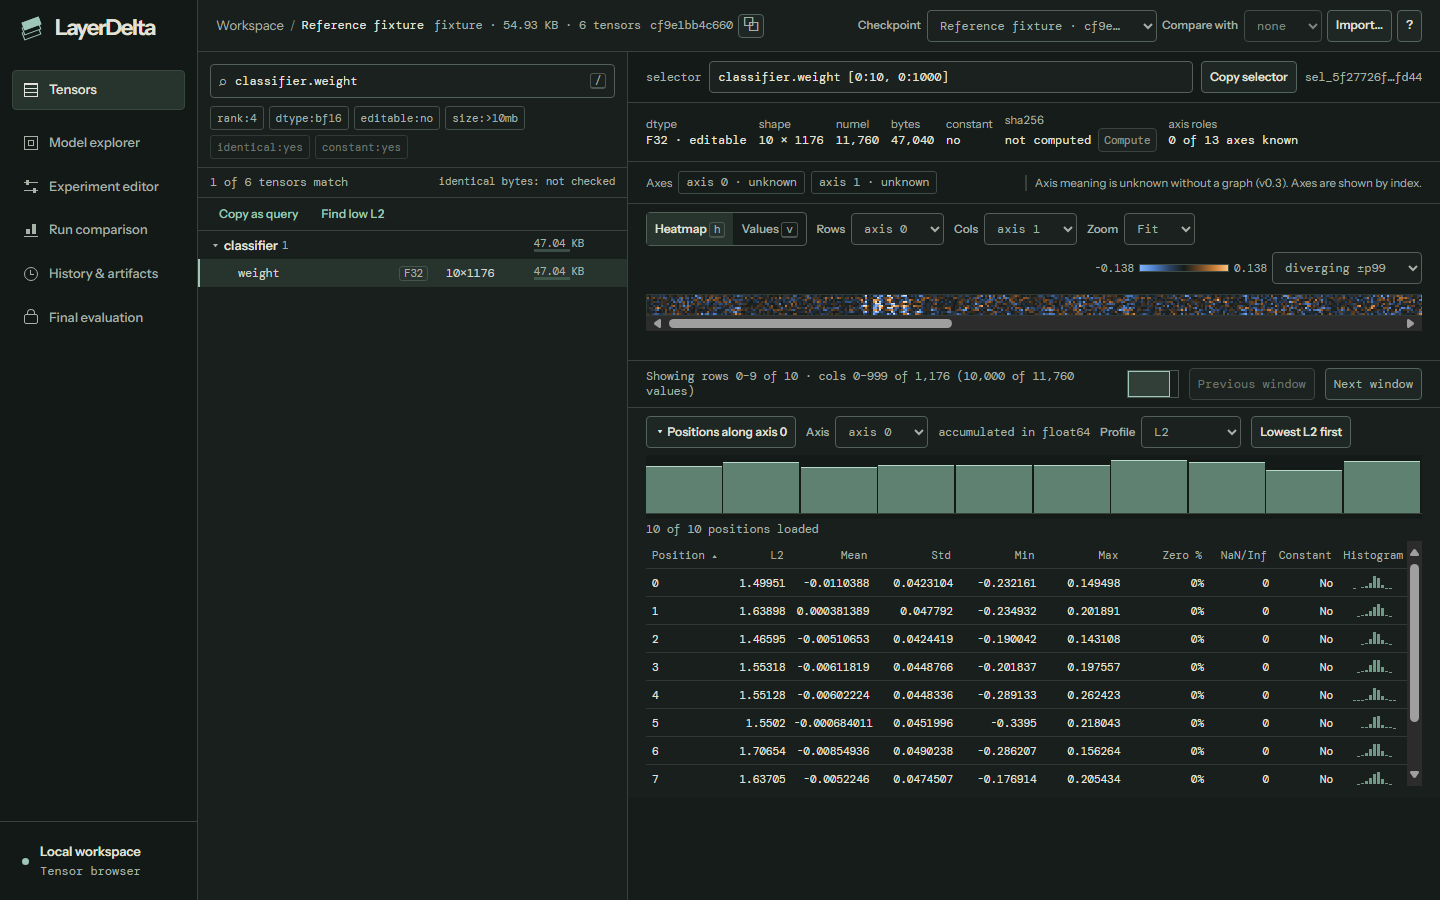
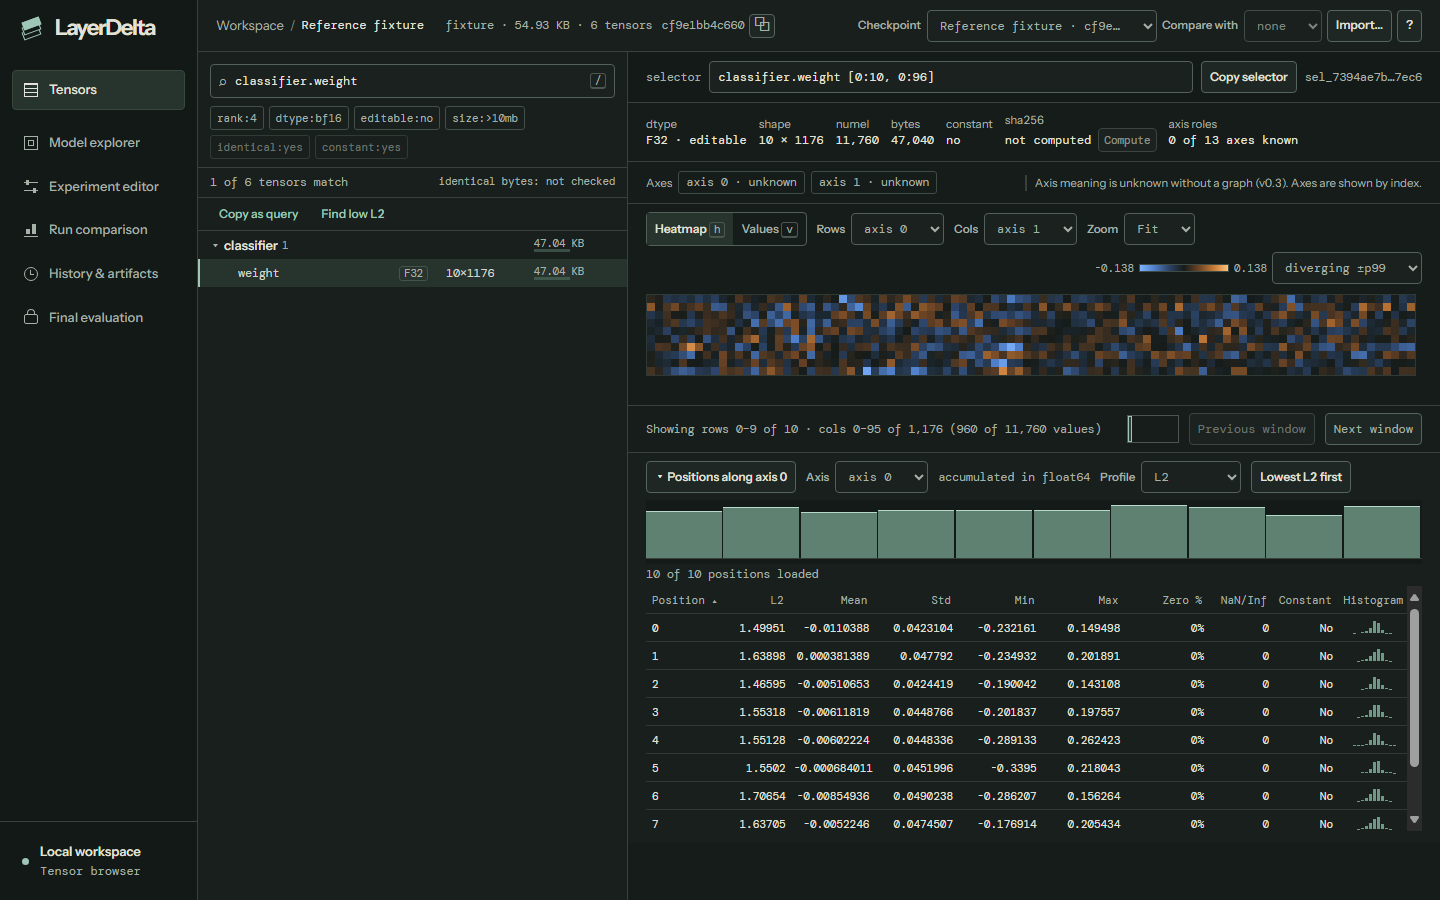
v0.2-T7b: fit-to-pane windows and profile envelope (#37)
* Fit tensor windows to the pane and draw profile envelopes

* Use pane aspect and handle signed profile envelopes

---------

diff --git a/desktop/src/TensorInspector.tsx b/desktop/src/TensorInspector.tsx
@@ -2,7 +2,7 @@ import {useEffect, useMemo, useRef, useState} from "react";
 import {AxisRange, coordinates, DiffReply, DiffStatus, elements, Envelope, indicesFor, InspectError, Range, Read,
   Resolved, resolveSelector, Selector, Tensor, TensorDataSource, Unit, Value, ValueDiff} from "./tensorSource";
 import {count, statuses} from "./tensorTree";
-import {Cells, displayUlp, Heatmap, heatmapHeight, heatmapSize, metric, minFitCell, printed, ScaleLegend, ScaleMode, scaleFor, useWidth, ValueGrid, valueGridWidths} from "./tensorValues";
+import {Cells, displayUlp, fitCell, Heatmap, heatmapHeight, heatmapSize, metric, minFitCell, printed, ScaleLegend, ScaleMode, scaleFor, useWidth, ValueGrid, valueGridWidths} from "./tensorValues";
 import {Units} from "./tensorUnits";
 
 type View = "Heatmap" | "Values" | "Mosaic";
@@ -11,7 +11,7 @@ type DeltaPage = DiffReply<ValueDiff>;
 type Cursors = {child: string | null; parent?: string | null; delta?: string | null; pair?: string};
 type LoadedPage = {child: ReadPage; parent?: ReadPage; delta?: DeltaPage};
 type Layout = {rows: number; cols: number; spatial: number[]; view: View; index: Record<string, number[] | AxisRange>; shape?: number[]};
-type Display = Pick<Layout, "rows" | "cols" | "spatial"> & {flats: boolean; selectorText: string};
+type Display = Pick<Layout, "rows" | "cols" | "spatial"> & {flats: boolean; flatCols: number; selectorText: string};
 type DisplayedPage = LoadedPage & {key: string; dataset: string; range: LoadedPage & {key: string}; display: Display};
 const pageCap = 10000;
 const smallAxes = (tensor: Tensor) => tensor.shape.flatMap((n, i) => n > 0 && n <= 7 ? [i] : []);
@@ -71,6 +71,7 @@ type InspectorProps = {source: TensorDataSource; checkpoint: string; other: stri
 export function TensorInspector({source, checkpoint, other, tensor: t, status, coverage, shortcuts, copy, focusRequest}: InspectorProps) {
   const [layout, setLayout] = useState(() => defaultLayout(t));
   const [page, setPage] = useState(0);
+  const [cursorPageSize, setCursorPageSize] = useState<number>();
   const [flatCursors, setFlatCursors] = useState<Cursors[]>([{child: null}]);
   const [fixedInput, setFixedInput] = useState<Record<number, string>>({});
   const [unitAxis, setUnitAxis] = useState(0);
@@ -111,20 +112,36 @@ export function TensorInspector({source, checkpoint, other, tensor: t, status, c
   const tileArea = Math.max(1, tileRows * tileCols);
   const fullCount = elements(ids.map(axis => axis.length));
   const regionCap = Math.floor(pageCap / tileArea);
+  const fit = view !== "Values" && zoom === "fit";
   const paneCount = comparing ? 3 : 1;
   const paneWidth = Math.max(1, ((width || 800) - 40 - (paneCount - 1) * 14) / paneCount);
-  const rowLimit = Math.max(1, Math.floor(heatmapHeight / (tileRows * minFitCell)));
+  const gap = tileRows > 1 || tileCols > 1 ? 1 : 0;
+  const rowLimit = Math.max(1, Math.floor((heatmapHeight + gap) / Math.max(1, tileRows * minFitCell + gap)));
   const fitsRows = fullRows <= rowLimit && fullRows <= regionCap;
-  // Keep wide single-pane windows useful with horizontal scrolling at readable zoom.
-  const colLimit = Math.max(!comparing && fitsRows ? 1000 : 1, Math.floor(paneWidth / (tileCols * minFitCell)));
   const balancedRows = Math.max(1, Math.min(rowLimit, Math.ceil(Math.sqrt(regionCap * fullRows / Math.max(1, fullCols)))));
-  const windowRows = fullCount <= pageCap ? fullRows : Math.min(fullRows, fitsRows ? fullRows : spatial.length ? Math.min(16, balancedRows) : balancedRows);
-  const windowCols = fullCount <= pageCap ? fullCols :
-    Math.max(1, Math.min(fullCols, spatial.length ? Math.min(32, colLimit) : colLimit, Math.floor(regionCap / Math.max(1, windowRows))));
+  const aspectRows = Math.ceil(Math.sqrt(regionCap * heatmapHeight * tileCols / Math.max(1, paneWidth * tileRows)));
+  const paneRows = Math.min(fullRows, rowLimit, regionCap, Math.max(1, aspectRows));
+  const paneRowsHeight = paneRows * tileRows + gap * Math.max(0, paneRows - 1);
+  // Give up one row when it lets the window use a larger cell and fill more of the pane.
+  const fitRows = paneRows > 1 && fitCell(paneRowsHeight - tileRows - gap) > fitCell(paneRowsHeight) ? paneRows - 1 : paneRows;
+  const windowRows = fit ? fitRows :
+    fullCount <= pageCap ? fullRows : Math.min(fullRows, fitsRows ? fullRows : spatial.length ? Math.min(16, balancedRows) : balancedRows);
+  const matrixCell = fitCell(windowRows * tileRows + gap * Math.max(0, windowRows - 1));
+  const colLimit = fit ? Math.floor((paneWidth + gap) / Math.max(1, tileCols * matrixCell + gap)) :
+    Math.max(!comparing && fitsRows ? 1000 : 1, Math.floor(paneWidth / Math.max(1, tileCols * minFitCell)));
+  const windowCols = !fit && fullCount <= pageCap ? fullCols :
+    Math.max(1, Math.min(fullCols, !fit && spatial.length ? Math.min(32, colLimit) : colLimit, Math.floor(regionCap / Math.max(1, windowRows))));
+  const vector = t.shape.length === 1;
+  const flatColsCap = vector ? 128 : 80;
+  const flatCell = fitCell(vector ? 1 : Math.ceil(Math.min(fullCount, pageCap) / flatColsCap));
+  const flatCols = fit ? Math.max(1, Math.min(flatColsCap, Math.floor(paneWidth / flatCell))) : flatColsCap;
+  const flatPageSize = Math.min(vector ? 128 : pageCap, fit ? flatCols * (vector ? 1 : Math.floor(heatmapHeight / flatCell)) : pageCap);
+  const cell = fit ? flats ? flatCell : matrixCell : view === "Values" ? minFitCell : Number(zoom);
   const colsPages = Math.max(1, Math.ceil(fullCols / (windowCols || 1)));
   const rectangularPages = Math.max(1, Math.ceil(fullRows / (windowRows || 1)) * colsPages);
   const windowed = !flats && rectangularPages > 1;
-  const windowPage = windowed ? Math.min(page, rectangularPages - 1) : flats ? page : 0;
+  // Flat cursors mark offsets for the page size that produced them.
+  const windowPage = windowed ? Math.min(page, rectangularPages - 1) : flats && flatPageSize === cursorPageSize ? page : 0;
   const rowStart = Math.floor(windowPage / colsPages) * windowRows, colStart = (windowPage % colsPages) * windowCols;
   const rowPart = ids[rows]?.slice(rowStart, rowStart + windowRows);
   const colPart = ids[cols]?.slice(colStart, colStart + windowCols);
@@ -136,10 +153,10 @@ export function TensorInspector({source, checkpoint, other, tensor: t, status, c
       index[axis] = part.at(-1)! - part[0] + 1 === part.length ? {start: part[0], stop: part.at(-1)! + 1} : part;
     }
     return {...baseSelector, index};
-  }, [baseSelector, rows, cols, t.name, windowed, rowStart, colStart]);
+  }, [baseSelector, rows, cols, windowed, rowStart, colStart, windowRows, windowCols]);
   const dataset = JSON.stringify([checkpoint, comparing ? other : "", t.name]);
   const selectorText = syntax(t, selection.index ?? {}, shape);
-  const viewKey = JSON.stringify([dataset, baseKey, windowPage, selection, rows, cols, spatial, retry]);
+  const viewKey = JSON.stringify([dataset, baseKey, windowPage, selection, rows, cols, spatial, flats ? [flatPageSize, flatCols] : null, retry]);
   const globalKey = JSON.stringify([dataset, baseKey]);
   const activeId = status === "only_a" ? other : checkpoint;
   const wholeKey = activeId + t.name;
@@ -149,14 +166,13 @@ export function TensorInspector({source, checkpoint, other, tensor: t, status, c
   const failure = error ?? readError;
   const stale = !!failure && !!shown;
   const pending = canRead && !current && !failure;
-  const flatPageSize = t.shape.length === 1 ? 128 : pageCap;
-  const flatCount = Math.max(0, Math.min(flatPageSize, fullCount - page * flatPageSize));
-  const colsReading = flats ? Math.min(t.shape.length === 1 ? flatPageSize : 80, flatCount) :
+  const flatCount = Math.max(0, Math.min(flatPageSize, fullCount - windowPage * flatPageSize));
+  const colsReading = flats ? Math.min(flatCols, flatCount) :
     (windowed ? colPart?.length ?? 1 : fullCols) * tileCols;
   const rowsReading = flats ? Math.ceil(flatCount / Math.max(1, colsReading)) :
     (windowed ? rowPart?.length ?? 1 : fullRows) * tileRows;
   const computeRange = global?.key !== globalKey && fullCount > 0 && fullCount <= 2 ** 24;
-  const skeleton = pending && !shown && heatmapSize(Math.max(1, rowsReading), Math.max(1, colsReading), tileRows, tileCols, paneWidth, zoom);
+  const skeleton = pending && !shown && heatmapSize(Math.max(1, rowsReading), Math.max(1, colsReading), tileRows, tileCols, cell);
   // The backend rejects explicit zero-length ranges, including the echoed empty-axis range.
   const copySelection = t.shape.includes(0) ? selection : shown?.child.resolved.selector ?? resolveSelector({...selection, shape: t.shape}, t);
 
@@ -197,7 +213,7 @@ export function TensorInspector({source, checkpoint, other, tensor: t, status, c
     let live = true;
     setReadError(undefined);
     if (!canRead) return;
-    const pageSize = t.shape.length === 1 ? 128 : pageCap;
+    const pageSize = flats ? flatPageSize : pageCap;
     async function fetchPage(selector: Selector, include_range: boolean): Promise<LoadedPage> {
       const readChild = source.read_tensor(activeId, {selector, max_elems: pageSize, include_range});
       if (!comparing) return {child: await readChild};
@@ -212,23 +228,24 @@ export function TensorInspector({source, checkpoint, other, tensor: t, status, c
       try {
         const saved = global?.key === globalKey ? global : undefined;
         const firstPage = saved ?? fetchPage(baseSelector, true);
-        const [first, window] = await Promise.all([firstPage, windowed ? fetchPage(selection, false) : undefined]);
+        const changedPageSize = flats && windowPage === 0 && saved && saved.child.result.returned_elems !== flatCount;
+        const [first, window] = await Promise.all([firstPage, windowed || changedPageSize ? fetchPage(selection, false) : undefined]);
         if (!live) return;
         const range = saved ?? {key: globalKey, ...first};
         if (!saved) setGlobal(range);
         let data = window ?? range;
-        if (flats && page > 0) {
-          const child = await source.read_tensor(activeId, {selector: selection, max_elems: t.shape.length === 1 ? 128 : pageCap, cursor: flatCursors[page]?.child});
+        if (flats && windowPage > 0) {
+          const child = await source.read_tensor(activeId, {selector: selection, max_elems: pageSize, cursor: flatCursors[windowPage]?.child});
           let parent: ReadPage | undefined, delta: DeltaPage | undefined;
           if (comparing) {
             const {offset, returned_elems} = child.result;
-            const max_elems = t.shape.length === 1 ? 128 : pageCap;
+            const max_elems = pageSize;
             const cursorAt = async <T extends {cursor: string | null}>(initial: T, next: (cursor: string) => Promise<T>) => {
               let value = initial;
-              for (let step = 0; step < page && value.cursor; step++) value = await next(value.cursor);
+              for (let step = 0; step < windowPage && value.cursor; step++) value = await next(value.cursor);
               return value;
             };
-            const saved = flatCursors[page];
+            const saved = flatCursors[windowPage];
             const parentPage = (cursor: string) => source.read_tensor(other, {selector: selection, max_elems, cursor});
             const deltaPage = (cursor: string) => source.diff(other, checkpoint, {selector: selection, values: true, unit_axis: null, max_elems, cursor});
             [parent, delta] = saved?.pair === other && saved.parent && saved.delta ? await Promise.all([
@@ -239,7 +256,7 @@ export function TensorInspector({source, checkpoint, other, tensor: t, status, c
           }
           data = {child, parent, delta};
         }
-        if (live) setLoaded({...data, key: viewKey, dataset, range, display: {rows, cols, spatial, flats, selectorText}});
+        if (live) setLoaded({...data, key: viewKey, dataset, range, display: {rows, cols, spatial, flats, flatCols, selectorText}});
       } catch (e) {
         if (live) setReadError(e instanceof InspectError ? e : new InspectError("read_failed", (e as Error).message));
       }
@@ -252,9 +269,12 @@ export function TensorInspector({source, checkpoint, other, tensor: t, status, c
   const truncated = windowed || !!shown?.child.truncated || windowPage > 0;
   function stepWindow(step: number) {
     if (step < 0 ? windowPage === 0 : !canNext) return;
-    if (step > 0 && flats && current?.child.cursor) setFlatCursors(previous => [...previous.slice(0, page + 1), {
-      child: current.child.cursor, parent: current.parent?.cursor, delta: current.delta?.cursor, pair: other,
-    }]);
+    if (step > 0 && flats && current?.child.cursor) {
+      setCursorPageSize(flatPageSize);
+      setFlatCursors(previous => [...previous.slice(0, windowPage + 1), {
+        child: current.child.cursor, parent: current.parent?.cursor, delta: current.delta?.cursor, pair: other,
+      }]);
+    }
     setPage(windowPage + step); setCursor(-1); setPinned(-1); setDraft(undefined);
   }
 
@@ -327,12 +347,12 @@ export function TensorInspector({source, checkpoint, other, tensor: t, status, c
     [scoped, modes, shown]);
   const mapped = useMemo(() => {
     if (!shown) return null;
-    const {rows, cols, spatial, flats} = shown.display;
+    const {rows, cols, spatial, flats, flatCols} = shown.display;
     const positionAxes = indicesFor(shown.child.resolved.selector);
     const result = shown.child.result;
     if (!result.returned_elems) return null;
     if (flats) {
-      const width = t.shape.length === 1 ? result.returned_elems : Math.min(80, result.returned_elems);
+      const width = Math.min(flatCols, result.returned_elems);
       return {height: Math.ceil(result.returned_elems / width), width, tileHeight: 1, tileWidth: 1,
         positions: result.values.map((_, i) => coordinates(i + result.offset, result.selection_shape).map((p, axis) => positionAxes[axis][p])),
         order: result.values.map((_, i) => i)};
@@ -482,7 +502,7 @@ export function TensorInspector({source, checkpoint, other, tensor: t, status, c
         {elapsed > 0 && <span aria-hidden="true" className="tb-read-elapsed"> · {elapsed} s elapsed</span>}
       </div>}
       {stale && <p role="status" className="tb-read-status">Showing the last valid selection</p>}
-      <div ref={stage} className="tb-stage" data-pending={pending && !!shown} data-compare={panes.length > 1}>
+      <div ref={stage} className="tb-stage" data-fit={fit} data-pending={pending && !!shown} data-compare={panes.length > 1}>
         {skeleton && Array.from({length: paneCount}, (_, i) => <div key={i} className="tb-window-skeleton" aria-hidden="true"
           style={{width: Math.min(view === "Values" ? (colsReading + 1) * 36 : skeleton.w, paneWidth),
             height: view === "Values" ? Math.min(255, (rowsReading + 1) * 28) : skeleton.h}}/>)}
@@ -498,8 +518,7 @@ export function TensorInspector({source, checkpoint, other, tensor: t, status, c
                   if (peer !== scroller) {peer.scrollTop = scroller.scrollTop; peer.scrollLeft = scroller.scrollLeft;}
                 });
               } : undefined}/> :
-              <Heatmap cells={cells} cursor={focusCell} onCursor={setCursor} onPin={pin} zoom={zoom}
-                width={paneWidth}
+              <Heatmap cells={cells} cursor={focusCell} onCursor={setCursor} onPin={pin} cell={cell}
                 label={view + " of " + shownDisplay?.selectorText + ", " + mapped.height + " by " + mapped.width + ", " + p.scale.label +
                   (p.scale.note ? ", " + p.scale.note : "") +
                   (p.scale.kind === "empty" || p.scale.kind === "constant" || p.scale.kind === "bool" ? "" :

diff --git a/desktop/src/tensorBrowser.css b/desktop/src/tensorBrowser.css
@@ -30,7 +30,7 @@
 #tb-selector-error code {margin-inline-start: 4px}
 .tb-context {min-height: 52px; padding: 6px 18px; gap: 12px; flex-wrap: nowrap}
 .tb-catalog-context {display: flex; align-items: center; gap: 10px; flex: 1 1 0; min-width: 0; white-space: nowrap}
-.tb-catalog-facts {display: flex; align-items: center; gap: 5px; min-width: 0}
+.tb-catalog-facts {display: flex; align-items: center; gap: 5px; flex: 0 100 auto; min-width: calc(12ch + 36px)}
 .tb-checkpoint-facts {overflow: hidden; text-overflow: ellipsis; margin-right: 4px}
 .tensor-browser .tb-copy-sha {flex: none; min-height: 24px; width: 26px; padding: 0; font-size: 16px}
 .tb-import-notice {margin: 0; padding: 7px 18px; border-bottom: 1px solid var(--tb-pane-line); color: var(--bench-accent)}
@@ -38,10 +38,7 @@
   .tb-work:has(.tb-import-notice) {display: flex; flex-direction: column}
   .tb-work:has(.tb-import-notice) .tb-panes {flex: 1 1 auto; height: auto}
 }
-.tb-context .context-title {width: auto; min-width: 0; gap: 6px; overflow: hidden}
-@media (min-width: 1360px) {
-  .tb-catalog-facts {flex-shrink: 0}
-}
+.tb-context .context-title {width: auto; min-width: min(100%, calc(16ch + 5.4rem)); gap: 6px; overflow: hidden}
 .tb-context .context-title strong {overflow: hidden; text-overflow: ellipsis; white-space: nowrap}
 .tb-context .tb-tools {justify-content: flex-end; flex: 0 0 auto; flex-wrap: nowrap; gap: 5px; white-space: nowrap}
 .tb-context select {max-width: min(16vw, 210px)}
@@ -156,6 +153,7 @@
 .tb-pane {flex: 0 0 auto; min-width: 0; max-width: 100%; overflow: auto}
 .tb-pane-zero {margin: 4px 0 0}
 .tb-stage[data-compare=true] .tb-pane {max-width: calc((100% - 28px) / 3)}
+.tb-stage[data-fit=true] .tb-pane {overflow: clip}
 .tb-pane:has(.tb-value-scroll) {flex: 1 0 0}
 .tb-stage[data-compare=true] .tb-pane h3 {height: 35px; align-content: start}
 .tb-pane h3 {margin: 2px 0 5px; font-size: 12px; display: flex; flex-wrap: wrap; align-items: center; gap: 4px 10px}
@@ -246,6 +244,7 @@
   .tb-panes {display: flex; flex-direction: column; height: auto}
   .tb-context {padding-inline: 10px; gap: 6px}
   .tb-catalog-context {gap: 5px}
+  .tb-context .context-title {min-width: min(100%, 16ch)}
   .tb-context .context-title > :not(strong), .tb-context .tb-tools label span {display: none}
   .tensor-browser .tb-drawer {display: block; align-self: flex-start; margin: 6px 18px}
   .tb-tree {display: none; height: 380px; border-block: 1px solid var(--tb-pane-line); border-right: 0}

diff --git a/desktop/src/tensorValues.tsx b/desktop/src/tensorValues.tsx
@@ -115,19 +115,20 @@ export function moveCell(key: string, index: number, rows: number, cols: number)
 export const heatmapHeight = 208;
 export const minFitCell = 2;
 
-export function heatmapSize(rows: number, cols: number, tileRows: number, tileCols: number, width: number, zoom: string) {
-  const cell = zoom === "fit" ? Math.max(minFitCell, Math.min(24, Math.floor(Math.min(width / cols, heatmapHeight / rows)))) : Number(zoom);
+export const fitCell = (rows: number) => Math.max(minFitCell, Math.min(8, Math.floor(heatmapHeight / Math.max(1, rows))));
+
+export function heatmapSize(rows: number, cols: number, tileRows: number, tileCols: number, cell: number) {
   const gap = tileCols > 1 || tileRows > 1 ? 1 : 0;
   const pixels = (length: number, tile: number) => length * cell + Math.floor((length - 1) / tile) * gap;
-  return {cell, gap, w: pixels(cols, tileCols), h: pixels(rows, tileRows)};
+  return {gap, w: pixels(cols, tileCols), h: pixels(rows, tileRows)};
 }
 
-export function Heatmap({cells, cursor, onCursor, onPin, label, zoom, width}: {cells: Cells; cursor: number;
-  onCursor: (i: number) => void; onPin: (i: number) => void; label: string; zoom: string; width: number}) {
+export function Heatmap({cells, cursor, onCursor, onPin, label, cell}: {cells: Cells; cursor: number;
+  onCursor: (i: number) => void; onPin: (i: number) => void; label: string; cell: number}) {
   const ref = useRef<HTMLCanvasElement>(null);
   const raster = useRef<HTMLCanvasElement>(null);
   const {rows, cols, tileRows, tileCols, values, changed, scale} = cells;
-  const {cell, gap, w, h} = heatmapSize(rows, cols, tileRows, tileCols, width, zoom);
+  const {gap, w, h} = heatmapSize(rows, cols, tileRows, tileCols, cell);
   const pixel = (index: number, tile: number) => index * cell + Math.floor(index / tile) * gap;
 
   useLayoutEffect(() => {
@@ -201,7 +202,7 @@ export function Heatmap({cells, cursor, onCursor, onPin, label, zoom, width}: {c
         onCursor(next);
         const pane = e.currentTarget.parentElement;
         if (pane) {
-          const x = pixel(next % cols, tileCols);
+          const x = e.currentTarget.clientLeft + pixel(next % cols, tileCols);
           if (x < pane.scrollLeft) pane.scrollLeft = x;
           else if (x + cell > pane.scrollLeft + pane.clientWidth) pane.scrollLeft = x + cell - pane.clientWidth;
         }

diff --git a/desktop/src/tensorUnits.tsx b/desktop/src/tensorUnits.tsx
@@ -79,12 +79,19 @@ function Profile({rows, total, get, onPosition, selected, axis}: {rows: Row[]; t
     }
     for (const [x, bucket] of envelope) {
       if (!Number.isFinite(bucket.max)) continue;
-      const top = y(total > width ? bucket.max : Math.max(0, bucket.max));
-      const bottom = y(total > width ? bucket.min : Math.min(0, bucket.min));
-      ctx.fillStyle = "#5f8172";
-      ctx.fillRect(x, top, Math.max(1, bars - 1), Math.max(1, bottom - top));
+      const barWidth = Math.max(1, bars - 1);
+      const zero = y(0), min = y(bucket.min), max = y(bucket.max);
+      const near = y(bucket.min > 0 ? bucket.min : bucket.max < 0 ? bucket.max : 0);
+      if (max < min) {
+        ctx.fillStyle = "rgba(183,216,203,.7)";
+        ctx.fillRect(x, max, barWidth, min - max);
+      }
+      if (near !== zero) {
+        ctx.fillStyle = "#5f8172";
+        ctx.fillRect(x, Math.min(zero, near), barWidth, Math.abs(zero - near));
+      }
       ctx.fillStyle = "#b7d8cb";
-      ctx.fillRect(x, y(bucket.min), Math.max(1, bars - 1), 1);
+      ctx.fillRect(x, near, barWidth, 1);
     }
     ctx.fillStyle = "#e1f3e8";
     if (selected >= 0) ctx.fillRect(Math.floor(selected * width / total), 2, 1, 60);
